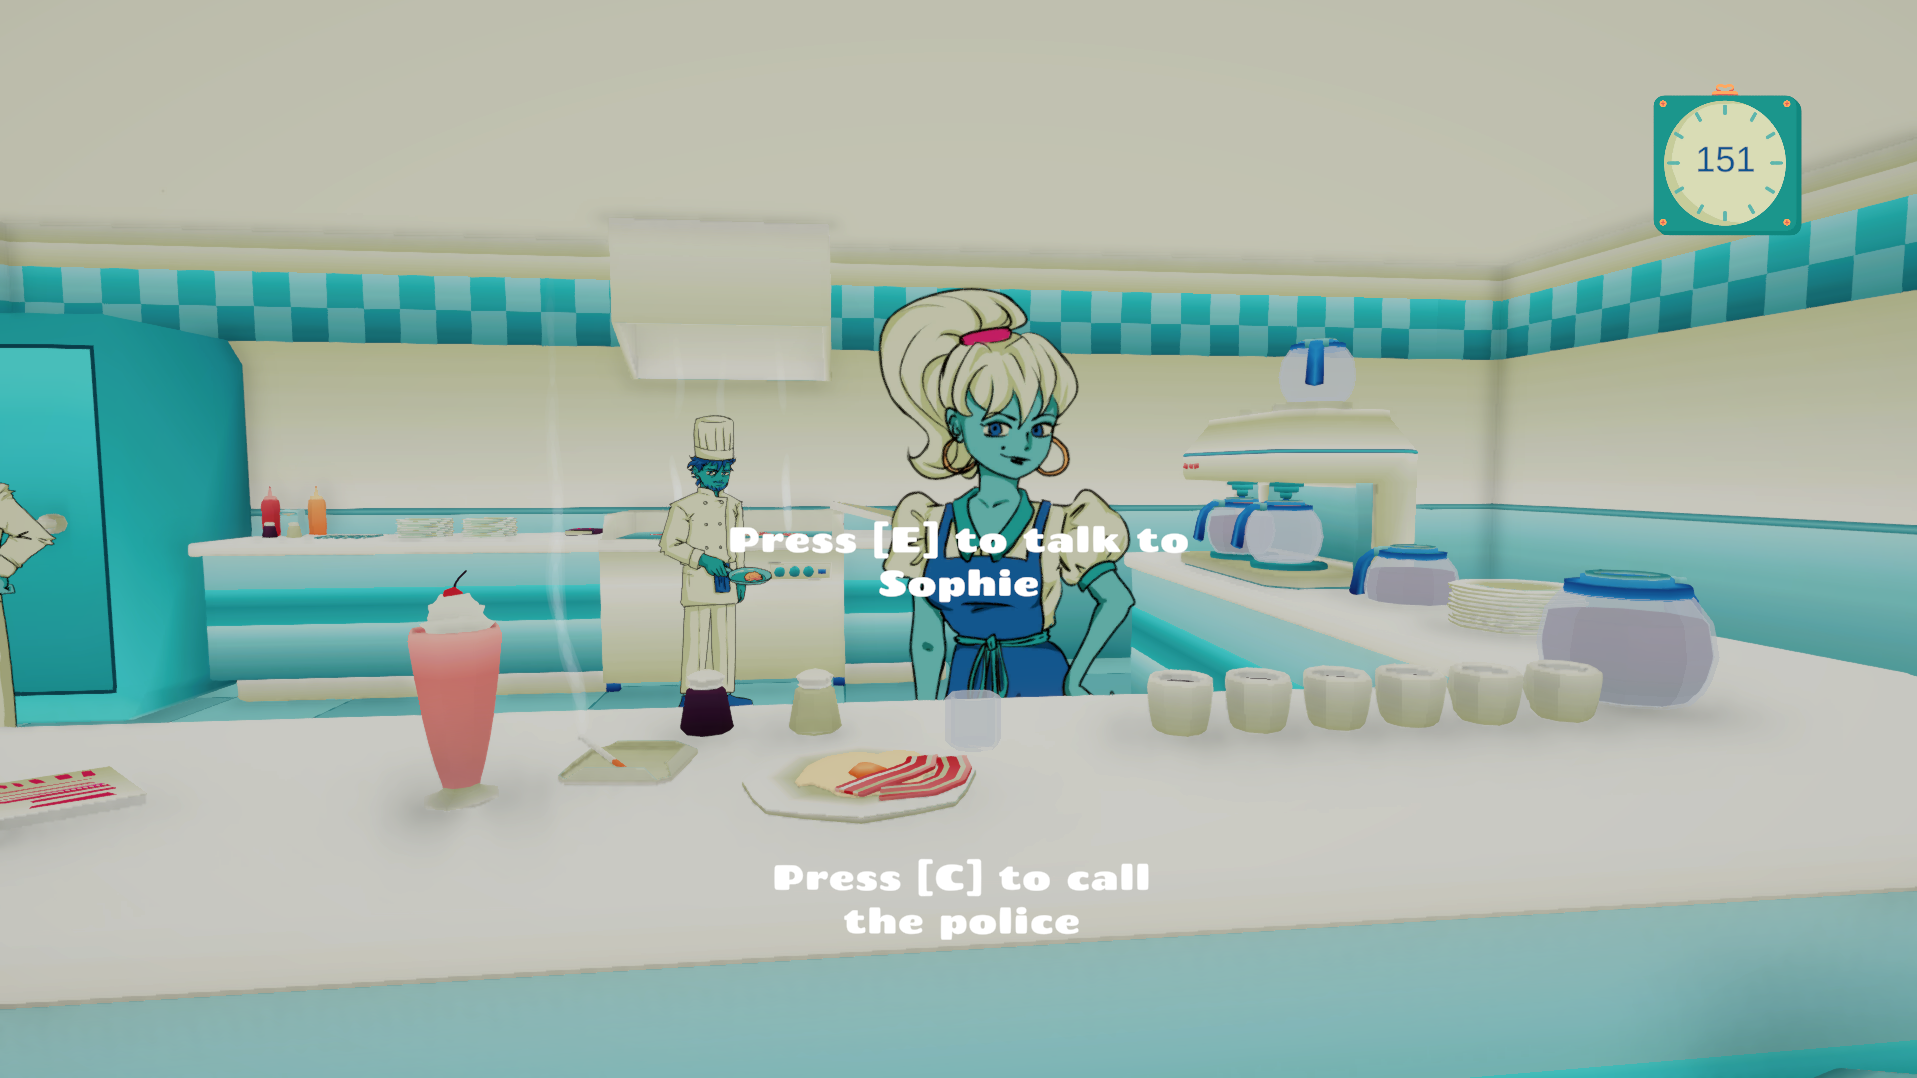
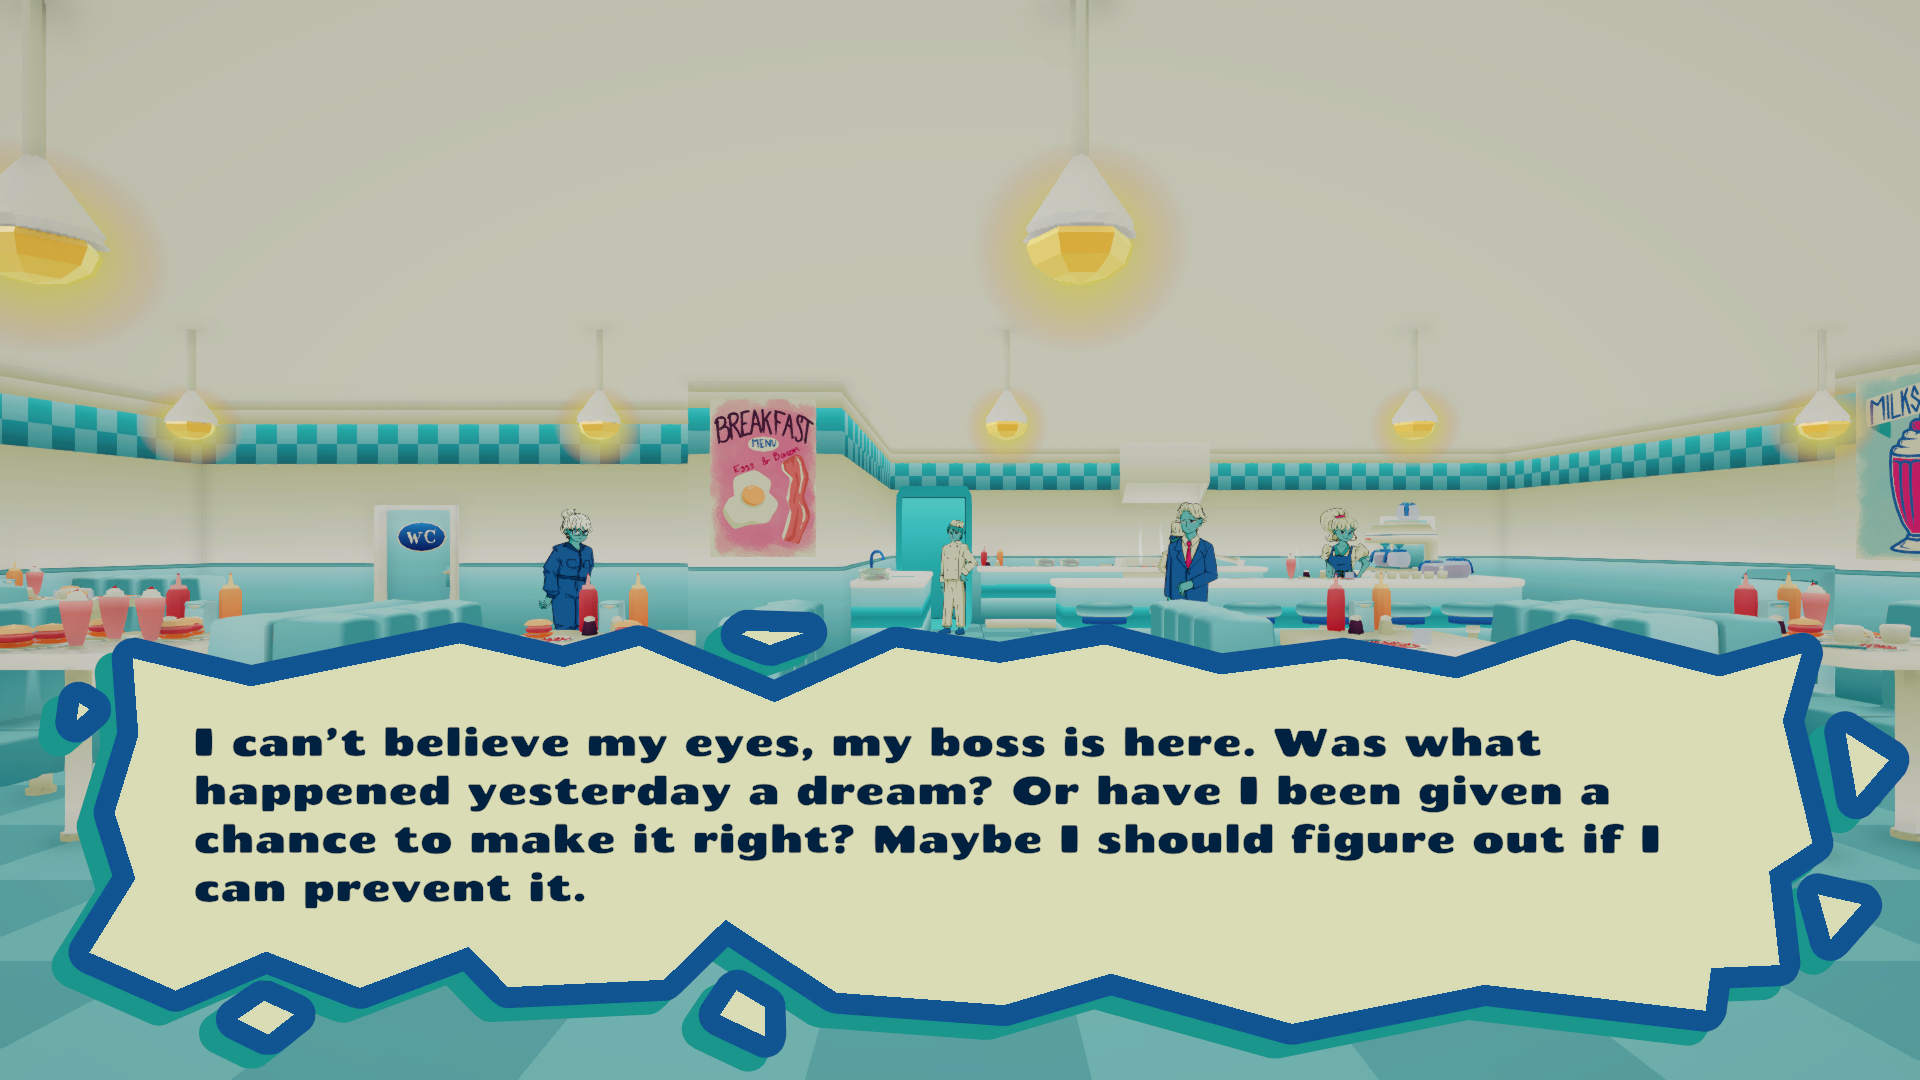
Update videogames section with new content and navigation; modify styles and fix text

diff --git a/src/videogames-content.jsx b/src/videogames-content.jsx
@@ -1,41 +1,78 @@
-function VidoegamesContent(){
+import DinerTime1 from './assets/DINER TIME/1.png';
+import DinerTime2 from './assets/DINER TIME/2.png';
+import DinerTime3 from './assets/DINER TIME/3.png';
+import DinerTime4 from './assets/DINER TIME/4.png';
+import DinerTime5 from './assets/DINER TIME/5.png';
+import DinerTime6 from './assets/DINER TIME/6.png';
 
+import SnipeUrType1 from './assets/SNIPE UR TYPE/1.png';
+import SnipeUrType2 from './assets/SNIPE UR TYPE/2.png';
+import SnipeUrType3 from './assets/SNIPE UR TYPE/3.png';
+import SnipeUrType4 from './assets/SNIPE UR TYPE/4.png';
+import SnipeUrType5 from './assets/SNIPE UR TYPE/5.png';
+import SnipeUrType6 from './assets/SNIPE UR TYPE/6.png';
+
+import FishGame1 from './assets/FISH GAME/1.png';
+import FishGame2 from './assets/FISH GAME/2.png';
+import FishGame3 from './assets/FISH GAME/3.png';
+import FishGame4 from './assets/FISH GAME/4.png';
+import FishGame5 from './assets/FISH GAME/5.png';
+import FishGame6 from './assets/FISH GAME/6.png';
+
+function VidoegamesContent(){
     return(
         <div className="display">
-            <h1>Diner Time!</h1>
+            <h1 id='dinerTime'>Diner Time!</h1>
             <div className='display-photos'>
-                {/* <img className='eg-photo' src={mesona1}></img>
-                <img className='eg-photo' src={mesona2}></img>
-                <img className='eg-photo' src={mesona3}></img>
-                <img className='eg-photo' src={mesona4}></img>
-                <img className='eg-photo' src={mesona5}></img>
-                <img className='eg-photo' src={mesona6}></img> */}
+                <img className='eg-photo' src={DinerTime1}></img>
+                <img className='eg-photo' src={DinerTime2}></img>
+                <img className='eg-photo' src={DinerTime3}></img>
+                <img className='eg-photo' src={DinerTime4}></img>
+                <img className='eg-photo' src={DinerTime5}></img>
+                <img className='eg-photo' src={DinerTime6}></img>
             </div>
             <div className='text-box'>
-                <p>A detective murder mystery where you relive the same day over and over until you can find the killer of your head chef at the retro 50s diner you work at.</p>
-                <p>Made in 48hrs for Creative Jam 2026 with a team of 6 people. I did the character art for the game, as well as some UI design and implementation.</p>
+                <p>A detective murder mystery where you relive the same day over and over until you can find the killer of your head chef.</p>
+                <p>Made in 48hrs for Creative Jam 2026 with a team of 6 people. I created all of the 2D character sprites for the game, as well as the 2D main menu title card and UI buttons. 
+                    I implemented the interactive character dialogue as well as design and button functionality for the main menu.</p>
                     <ul>
                         <li><a href="https://mooncat225.itch.io/diner-time" target="_blank">Itch.io</a></li>
                         <li><a href="https://github.com/Akutana/CreativeJam2026" target="_blank">Github</a></li>
                     </ul>
             </div>
 
-            <h1>Snipe Ur Type</h1>
+            <h1 id='snipeUrType'>Snipe Ur Type</h1>
+            <div className='display-photos'>
+                <img className='eg-photo' src={SnipeUrType1}></img>
+                <img className='eg-photo' src={SnipeUrType2}></img>
+                <img className='eg-photo' src={SnipeUrType3}></img>
+                <img className='eg-photo' src={SnipeUrType4}></img>
+                <img className='eg-photo' src={SnipeUrType5}></img>
+                <img className='eg-photo' src={SnipeUrType6}></img>
+            </div>
             <div className='text-box'>
-                <p>A detective murder mystery where you relive the same day over and over until you can find the killer of your head chef at the retro 50s diner you work at.</p>
-                <p>Made in 48hrs for Creative Jam 2026 with a team of 6 people. I did the character art for the game, as well as some UI design and implementation.</p>
+                <p>A deductive shooter game where you play as cupid to find uour client's ideal soulmate. Meet wacky characters with interesting criteria for their potential lovers and try to find the perfect one for them.</p>
+                <p>Made in 48hrs for McGameJam 2026 with a team of 7 people. I created most of the game's 2D assets, with the help of one other artist.</p>
                     <ul>
-                        <li><a href="https://mooncat225.itch.io/diner-time" target="_blank">Itch.io</a></li>
-                        <li><a href="https://github.com/Akutana/CreativeJam2026" target="_blank">Github</a></li>
+                        <li><a href="https://booknoodle.itch.io/snipe-ur-type" target="_blank">Itch.io</a></li>
+                        <li><a href="https://github.com/WillyHB/snipe-ur-type" target="_blank">Github</a></li>
                     </ul>
             </div>
-            <h1>A Fish Game</h1>
+            <h1 id='fishGame'>A Fish Game</h1>
+            <div className='display-photos'>
+                <img className='eg-photo' src={FishGame1}></img>
+                <img className='eg-photo' src={FishGame2}></img>
+                <img className='eg-photo' src={FishGame3}></img>
+                <img className='eg-photo' src={FishGame4}></img>
+                <img className='eg-photo' src={FishGame5}></img>
+                <img className='eg-photo' src={FishGame6}></img>
+            </div>
             <div className='text-box'>
-                <p>A detective murder mystery where you relive the same day over and over until you can find the killer of your head chef at the retro 50s diner you work at.</p>
-                <p>Made in 48hrs for Creative Jam 2026 with a team of 6 people. I did the character art for the game, as well as some UI design and implementation.</p>
+                <p>A 2D story rich adventure game based off of the myth of sedna. Dive into the deep sea and uncover her hidden story as you look across the sea floor for her severed fingers.</p>
+                <p>Made for GDM Studios 2026, a student game development showcase by GameDev McGill — McGill University's game development society, where we won Best Theme Integration for the theme "Into the Unknown". I did all of the 2d assets as well as the cover art and cutscenes. I also made and implemented the 2D bone animations of the main character, enemies, and final boss.</p>
                     <ul>
-                        <li><a href="https://mooncat225.itch.io/diner-time" target="_blank">Itch.io</a></li>
-                        <li><a href="https://github.com/Akutana/CreativeJam2026" target="_blank">Github</a></li>
+                        <li><a href="https://o1loly.itch.io/abyssal-dive" target="_blank">Itch.io</a></li>
+                        <li><a href="https://github.com/ol1oly/GDM-team7" target="_blank">Github</a></li>
                     </ul>
             </div>
         </div>

diff --git a/src/Content.jsx b/src/Content.jsx
@@ -6,7 +6,7 @@ function Content(){
             <section>
                 <div className="intro-box">
                     <h1>Hello!!!! Welcome to my website!! 
-                        <p>**THIS WEBSITE IS NOT FINISHED BTW ONLY THE 3D MODELS LINK IS CURRENTLY WORKING**</p>
+                        <p>**THIS WEBSITE IS NOT FINISHED BTW THE ART LINKS AND MMD LINKS ARENT WORKING**</p>
                     </h1>
                     <h4 className="intro-desc"> <p>This is basically meant to be a portfolio/collection of some of the fun stuff ive created. Have fun looking around! Go ham!</p></h4>
                 </div>

diff --git a/src/videogames-nav.jsx b/src/videogames-nav.jsx
@@ -1,0 +1,18 @@
+import { Link } from "react-scroll";
+
+function VideoGamesNav(){
+
+    return(
+        <nav className="model-nav">
+            <ul>
+                <li><Link to="top" smooth={true} duration={400} >Top</Link></li>
+                <li><Link to="dinerTime" smooth={true} duration={400} >Diner Time!</Link></li>
+                <li><Link to="snipeUrType" smooth={true} duration={400}>Snipe Ur Type</Link></li>
+                <li><Link to="fishGame" smooth={true} duration={400}>A Fish Game</Link></li>
+            </ul>
+        </nav>
+    );
+
+}
+
+export default VideoGamesNav

diff --git a/src/videogames.jsx b/src/videogames.jsx
@@ -1,13 +1,15 @@
 import Header from './Header.jsx';
 import Footer from './Footer.jsx';
 import Navbar from './Navbar.jsx';
+import VideoGamesNav from './videogames-nav.jsx';
 import VidoegamesContent from './videogames-content.jsx';
 export default function Videogames() {
     return (
         <>
-        <div className='center'>
+        <div className='center' id='top'>
                 <Header/>
                 <Navbar/>
+                <VideoGamesNav/>
                 <VidoegamesContent/>
                 <Footer/>
         </div>

diff --git a/src/model-nav.jsx b/src/model-nav.jsx
@@ -9,7 +9,7 @@ function ModelNav(){
                 <li><Link to="me" smooth={true} duration={400} >Me!!!!</Link></li>
                 <li><Link to="starr" smooth={true} duration={400}>Starr</Link></li>
                 <li><Link to="nova" smooth={true} duration={400}>Nova</Link></li>
-                <li><Link to="mrhappy" smooth={true} duration={400}>Mr. Happy</Link></li>
+                <li><Link to="mrhappy" smooth={true} duration={400}>Mr. <br />Happy</Link></li>
             </ul>
         </nav>
     );

diff --git a/src/models.jsx b/src/models.jsx
@@ -7,13 +7,11 @@ export default function Models() {
     return (
         <>
         <div id='top' className='center'>
-            {/* <div className='oogabooga'> */}
                 <Header/>
                 <Navbar/>
                 <ModelNav/>
                 <ModelContent/>
                 <Footer/>
-            {/* </div> */}
         </div>
         </>
     )

diff --git a/src/style.css b/src/style.css
@@ -428,7 +428,7 @@ nav.home-nav > a {
 
 nav.model-nav {
   position: fixed;
-  left: 150px;
+  left: 125px;
   z-index: 0;
 }
 
@@ -442,7 +442,7 @@ nav.model-nav > ul > li {
 
 nav.model-nav > ul > li a{
   display: block;
-  width: 130px;
+  width: 150px;
   list-style-type: none;
   border: 3.2px solid #ac0050;
   border-radius: 10px;
